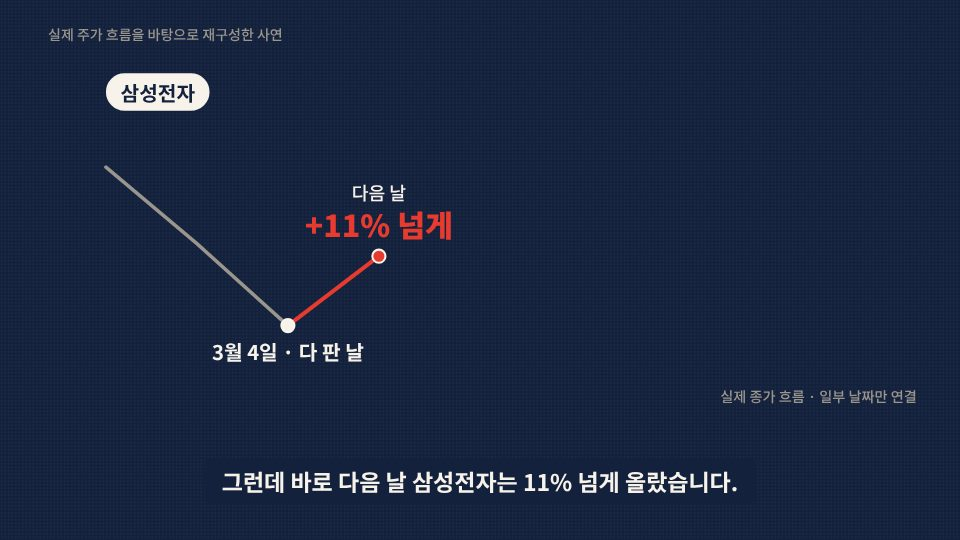
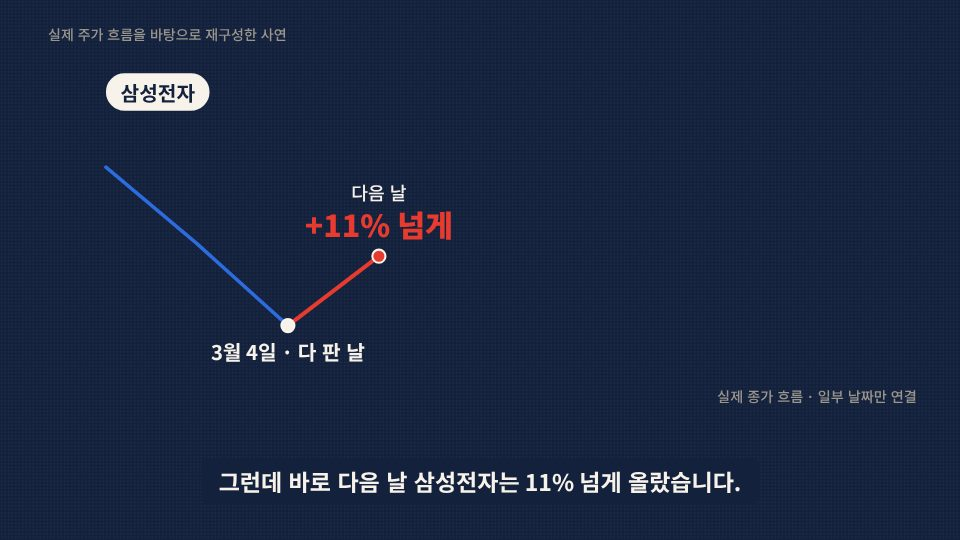
패닉셀 영상 코드·스토리보드 완성 (panicsell-2026-10, 31장면), 공통 부품 버그 2개 수정
- video/src/episodes/panicsell-2026-10/: facts·plan(31장면, STORY_LAST 16)·local·scenes·Episode
  — 문장 92 / 자막 109, 8:21. 스토리보드 53장 + scene_plan.md (stock/out/panicsell-2026-10/)
- 검수 수정: S05 산 가격 → 판 날 하락 구간 선을 회색 → 파랑 (하락 색 규칙)
- components/ui.tsx Strike: 그어지기 전 12px 조각이 보이던 버그
- components/charts.tsx Bars: 바닥선이 첫 막대와 함께 등장
- video/CHANGELOG.md (두 영상·공통 변경), README 현황표, 패닉셀 README v1.1, 요약 문서 갱신
- 검증: tsc 통과(물타기·빚투 포함), 모든 still 검수표 확인, 뒷줄 요소 동기화 확인

Claude-Session: https://claude.ai/code/session_013MzHfSBbKmZjNZkDwikYbP

diff --git a/video/src/components/charts.tsx b/video/src/components/charts.tsx
@@ -104,9 +104,10 @@ export type BarItem = {h: number; color: string; label: React.ReactNode; top?: R
 export const Bars: React.FC<{items: BarItem[]; x: number; baseY: number; maxH: number; barW?: number; gap?: number}> = ({items, x, baseY, maxH, barW = 220, gap = 200}) => {
   const f = useCurrentFrame();
   const fg = useFg();
+  const first = Math.min(...items.map((it) => it.at));   // 바닥선도 첫 막대와 함께 등장 (예전에는 처음부터 보였음)
   return (
     <>
-      <div style={{position: "absolute", left: x - 40, top: baseY, width: items.length * barW + (items.length - 1) * gap + 80, height: 6, background: fg}} />
+      <div style={{position: "absolute", left: x - 40, top: baseY, width: items.length * barW + (items.length - 1) * gap + 80, height: 6, background: fg, opacity: enter(f, first)}} />
       {items.map((it, i) => {
         const h = maxH * it.h * prog(f, it.at, 22);
         const left = x + i * (barW + gap);

diff --git a/video/src/components/ui.tsx b/video/src/components/ui.tsx
@@ -194,7 +194,8 @@ export const Strike: React.FC<{at: number; color?: string; children: React.React
   return (
     <span style={{position: "relative", display: "inline-block"}}>
       {children}
-      <span style={{position: "absolute", left: -6, top: "52%", height: 7, width: `calc(${p * 100}% + 12px)`, background: color ?? fg, borderRadius: 4}} />
+      {/* p = 0(그어지기 전)에는 아무것도 보이지 않게 — 예전에는 12px 조각이 먼저 보였음 */}
+      <span style={{position: "absolute", left: -6, top: "52%", height: 7, width: p > 0 ? `calc(${p * 100}% + 12px)` : 0, background: color ?? fg, borderRadius: 4}} />
     </span>
   );
 };

diff --git a/video/src/episodes/panicsell-2026-10/scenes/story.tsx b/video/src/episodes/panicsell-2026-10/scenes/story.tsx
@@ -258,7 +258,7 @@ export const S05: SceneC = ({t}) => {
         <Label size={40}>처음 산 가격</Label>
       </HRule>
       <Layer>
-        <Line pts={PATH} at={a(12)} dur={14} color={C.gray} width={7} />
+        <Line pts={PATH} at={a(12)} dur={14} color={C.loss} width={7} />
         <Line pts={[sold, UP1]} at={a(12, 0.35)} dur={14} color={C.gain} />
         <Line pts={[UP1, END]} at={a(13, 0.1)} dashed width={6} />
         <Dot p={sold} at={a(12, 0.1)} color={C.inkOnNavy} />

diff --git a/stock/source/panicsell-2026-10/summary.md b/stock/source/panicsell-2026-10/summary.md
@@ -1,6 +1,6 @@
 # panicsell-2026-10 한눈에 보기
 
-자동 생성 — `python tools/make_summary.py stock panicsell-2026-10` (2026-10-10 08:00). 이 파일은 고치지 말고 원본(대본·titles.md·thumbnails/·upload.md)을 고친 뒤 다시 만든다.
+자동 생성 — `python tools/make_summary.py stock panicsell-2026-10` (2026-10-10 08:37). 이 파일은 고치지 말고 원본(대본·titles.md·thumbnails/·upload.md)을 고친 뒤 다시 만든다.
 
 > **하락장이 무서워 -800만원에 다 팔았는데 그 뒤 +30% 반등했습니다. 패닉셀한 사람들이 마지막에 꼭 하는 후회**
 
@@ -12,7 +12,7 @@
 | 제목 3개 | ✅ 채택 T1 |
 | 썸네일 | 프롬프트 3개 ✅ · 이미지 0/3 (이미지 AI로 만들어 `thumbnails/thumbnail_N.png`에 저장) |
 | 업로드 시트 | ✅ 설명란·태그·고정 댓글·챕터 |
-| 스토리보드 | ⏳ 영상 코드 제작 전 |
+| 스토리보드 | ✅ still 53장 |
 | 오디오 | ⏳ 없음 → `source/panicsell-2026-10/narration.mp3`(또는 .wav·.m4a)를 올리면 4단계 시작 |
 | 렌더 | ⏳ 오디오 뒤 |
 | 유튜브 | ⏳ 렌더 뒤 비공개 업로드 + 렌더 완료 1시간 뒤 예약 공개 |
@@ -181,7 +181,23 @@ Render ONLY the Korean text given in quotes, exactly as written, in a heavy bold
 
 ## 4. 스토리보드
 
-아직 없음 → 3단계에서 영상 코드(`video/src/episodes/panicsell-2026-10/`)를 만들고 `node scripts/storyboard.mjs panicsell-2026-10 ../<주제폴더>/out/panicsell-2026-10`로 still을 렌더하면 여기에 붙는다.
+장면 31개 (장면마다 마지막 문장 끝 직전 still)
+
+| | | |
+|---|---|---|
+| <img src="../../out/panicsell-2026-10/storyboard/S01.jpg" width="100%"><br><b>S01</b> 문장 1 · 0:00.0–0:06.3<br><sub>1: 뉴스 카드(2026년 3월 4일 · 코스피) → -12% 카운트다운(파랑) → '넘게 · 하루 만에'</sub> | <img src="../../out/panicsell-2026-10/storyboard/S02.jpg" width="100%"><br><b>S02</b> 문장 2–6 · 0:06.3–0:29.4<br><sub>2: 계좌 카드 등장, 막대가 삼성전자(잉크)로 0 → 4,000만 원, 평가손익 0원 + 오른쪽 '닷새 전' / 3: 뉴스 카드 '반도체가 잘 팔린다' + '오…</sub> | <img src="../../out/panicsell-2026-10/storyboard/S03.jpg" width="100%"><br><b>S03</b> 문장 7–8 · 0:29.4–0:39.2<br><sub>7: 찢어진 종이 전환(네이비), '다음 날' + 큰 날짜 '3월 4일' / 8: 서킷브레이커 카드(오전 11시쯤) → 일시정지 표시 + '시장 전체 거래 20분…</sub> |
+| <img src="../../out/panicsell-2026-10/storyboard/S04.jpg" width="100%"><br><b>S04</b> 문장 9–11 · 0:39.2–0:53.7<br><sub>9: S02의 계좌 카드(머리 '3월 4일') 평가손익 -400만 → -800만 원 + '넘게', 카드가 흔들림 / 10: 뉴스 카드 3장이 쌓임 '전쟁 확대' …</sub> | <img src="../../out/panicsell-2026-10/storyboard/S05.jpg" width="100%"><br><b>S05</b> 문장 12–14 · 0:53.7–1:06.8<br><sub>12: 삼성전자 실제 종가 선 — 산 날 → 3월 4일 다 판 날(회색) → 다음 날 빨강 상승 '+11% 넘게' / 13: '판 가격' 점선, 7주 뒤 점(점선…</sub> | <img src="../../out/panicsell-2026-10/storyboard/S06.jpg" width="100%"><br><b>S06</b> 문장 15–16 · 1:06.8–1:18.5<br><sub>15: 왼쪽 '시장이 빼앗아 감'(회색)에 취소선 → 오른쪽 '겁에 질려 내던진'(형광펜) + 파랑 상자 800만 원 / 16: 모두 퇴장, 휴대폰 화면 '삼성전…</sub> |
+| <img src="../../out/panicsell-2026-10/storyboard/S07.jpg" width="100%"><br><b>S07</b> 문장 17–21 · 1:18.5–1:38.9<br><sub>17: 파랑 선 3개가 함께 내려감 + '시장 전체 ↓' (개념도) / 18·19·20: 생각 말풍선이 자막마다 하나씩 / 21: 모두 퇴장, '겁 > 판단' 칩…</sub> | <img src="../../out/panicsell-2026-10/storyboard/S08.jpg" width="100%"><br><b>S08</b> 문장 22–23 · 1:38.9–1:50.4<br><sub>22: '3월 4일' 칩 + '변동성 지수 VKOSPI', 80 카운트업 + '넘어', '사상 최고'(형광펜) / 23: 숫자를 둘러싼 반원 게이지가 그려지고 바…</sub> | <img src="../../out/panicsell-2026-10/storyboard/S09.jpg" width="100%"><br><b>S09</b> 문장 24–26 · 1:50.4–2:06.6<br><sub>24: '코스피 하루 거래대금' 58조 원 카운트업 + '넘게', '사상 최대'(형광펜) / 25: 작은 계좌 아이콘 12개 — 첫째는 '사연자'(진하게), 나머…</sub> |
+| <img src="../../out/panicsell-2026-10/storyboard/S10.jpg" width="100%"><br><b>S10</b> 문장 27–31 · 2:14.6–2:40.4<br><sub>27: 번호 타이틀 01 '크게 오르는 날은' / (뒷줄) '크게 떨어진 날 바로 뒤에'('바로 뒤에' 형광펜) / 28: 사례 카드① '2026년 · 코스피',…</sub> | <img src="../../out/panicsell-2026-10/storyboard/S11.jpg" width="100%"><br><b>S11</b> 문장 32–34 · 2:40.4–2:58.2<br><sub>32: 카드 '미국 자산운용사 · JP모건' / (뒷줄) 'S&P 500 지수' + 타임라인 2006년 → 2025년 '20년' / 33: 퇴장, 막대 비교 — …</sub> | <img src="../../out/panicsell-2026-10/storyboard/S12.jpg" width="100%"><br><b>S12</b> 문장 35–36 · 2:58.2–3:09.7<br><sub>35: '가장 많이 오른 10일' 빨강 점 10개 → 6개만 남고 4개는 회색, 괄호 + '6일' + '가장 크게 떨어진 10일과 2주 안'(2주 안 형광펜) /…</sub> |
+| <img src="../../out/panicsell-2026-10/storyboard/S13.jpg" width="100%"><br><b>S13</b> 문장 37–39 · 3:09.7–3:26.1<br><sub>37: 번호 타이틀 02 ('훨씬 어렵다' 형광펜) / 38: 왼쪽 카드 '3월 4일 · 판 가격' / (뒷줄) 빨강 화살표 → 오른쪽 위 카드 '다음 날 · 다…</sub> | <img src="../../out/panicsell-2026-10/storyboard/S14.jpg" width="100%"><br><b>S14</b> 문장 40–41 · 3:26.1–3:38.9<br><sub>40: 연구 카드 '미국 MIT 연구진' + '2003년부터 13년' / (뒷줄) '증권 계좌 65만여 개' / 41: '패닉셀'(형광펜) + '한 달 사이 주식…</sub> | <img src="../../out/panicsell-2026-10/storyboard/S15.jpg" width="100%"><br><b>S15</b> 문장 42–43 · 3:38.9–3:49.6<br><sub>42: 10×10 와플 31칸이 채워짐 + '패닉셀 중' 31%(형광펜) + '다시 주식으로 돌아오지 않음' / 43: S07의 말풍선 '일단 팔고, 잠잠해지면 …</sub> |
+| <img src="../../out/panicsell-2026-10/storyboard/S16.jpg" width="100%"><br><b>S16</b> 문장 44–47 · 3:49.6–4:08.4<br><sub>44: 번호 타이틀 03 ('지나고 나서야' 형광펜) / 45: 3월 4일 '판 날' 점 + 그 높이의 회색 점선 / 46: '코스피' 칩, 실제 지수 선 3월 …</sub> | <img src="../../out/panicsell-2026-10/storyboard/S17.jpg" width="100%"><br><b>S17</b> 문장 48–49 · 4:08.4–4:18.3<br><sub>48: '더 싸게 다시 사려면 → 둘 다 맞혀야'(둘 다 형광펜) + 과녁 카드 '파는 날' ✓ + '사는 날' ✓ / 49: 머리글이 파랑 '겁에 질린 날'로 …</sub> | <img src="../../out/panicsell-2026-10/storyboard/S18.jpg" width="100%"><br><b>S18</b> 문장 50–53 · 4:18.3–4:48.2<br><sub>50: 번호 타이틀 04 '사고판 시점 때문에' / (뒷줄) '수익이 줄어든다' / 51: 카드 '모닝스타 · 미국 펀드 평가사 · 2024년까지' / (뒷줄) …</sub> |
+| <img src="../../out/panicsell-2026-10/storyboard/S19.jpg" width="100%"><br><b>S19</b> 문장 54–56 · 4:48.2–5:01.3<br><sub>54: 헤드라인 '긴 하락장도 있다' / 55: '2008년 금융위기 · 코스피' 칩, 실제 지수 선이 1년 동안 파랑으로 내려가 '1년 만에 절반 넘게 ↓' /…</sub> | <img src="../../out/panicsell-2026-10/storyboard/S20.jpg" width="100%"><br><b>S20</b> 문장 57–58 · 5:01.3–5:12.4<br><sub>57: 왼쪽 카드 '무조건 버티기'(회색)에 취소선 / (뒷줄) 오른쪽 카드 '겁이 결정하지 않도록' + '미리 세운 기준'(형광펜) / 58: 카드 퇴장, '하…</sub> | <img src="../../out/panicsell-2026-10/storyboard/S21.jpg" width="100%"><br><b>S21</b> 문장 59–61 · 5:12.4–5:29.8<br><sub>59: 밝은 크림 전환, 번호 타이틀 '첫째 1~2년 안에 쓸 돈은 넣지 않기'(1~2년 형광펜) / 60: 패널 '2008년' + S19와 같은 모양의 작은 선…</sub> |
+| <img src="../../out/panicsell-2026-10/storyboard/S22.jpg" width="100%"><br><b>S22</b> 문장 62–63 · 5:29.8–5:38.8<br><sub>62: S02의 계좌 카드(간단형, '예시 · 4,000만 원'), 막대 끝 1/4이 빗금(현금)으로 바뀌며 '1년 안에 쓸 돈 1,000만 원' / 63: 아래…</sub> | <img src="../../out/panicsell-2026-10/storyboard/S23.jpg" width="100%"><br><b>S23</b> 문장 64–67 · 5:38.8–6:03.7<br><sub>64: 번호 타이틀 '둘째 크게 떨어진 날엔 하루 기다리기'('하루 기다리기' 형광펜) / 65: 파랑 날짜 칸 '서킷브레이커 걸린 날'(S03과 같은 일시정지 …</sub> | <img src="../../out/panicsell-2026-10/storyboard/S24.jpg" width="100%"><br><b>S24</b> 문장 68–69 · 6:03.7–6:14.8<br><sub>68: 번호 타이틀 '셋째 꼭 팔아야 한다면, 정해 둔 만큼만', 잉크 막대 + '전부'에 취소선 / 69: 막대가 3칸으로 나뉘고 오른쪽 1칸이 빗금(현금), …</sub> |
+| <img src="../../out/panicsell-2026-10/storyboard/S25.jpg" width="100%"><br><b>S25</b> 문장 70–72 · 6:14.8–6:32.4<br><sub>70: 오른쪽에 S02의 계좌 카드(머리 '3월 4일', -800만 원 넘게), 막대 3칸 중 1칸이 현금으로 '삼성전자 2/3 · 판 1/3 → 현금' / (뒷…</sub> | <img src="../../out/panicsell-2026-10/storyboard/S26.jpg" width="100%"><br><b>S26</b> 문장 73–75 · 6:32.4–6:49.4<br><sub>73: 번호 타이틀 '넷째 다시 살 날짜와 금액도 정해 두기' / 74: 날짜 칸 4개 '금요일 3월 6일 · 13일 · 20일 · 27일' + 각 '판 돈 1/…</sub> | <img src="../../out/panicsell-2026-10/storyboard/S27.jpg" width="100%"><br><b>S27</b> 문장 76–78 · 6:49.4–7:05.2<br><sub>76: 오른쪽 S02의 계좌 카드(머리 '4월 23일', 막대 4칸 다시 삼성전자) 평가손익 -800만 → -190만 원 '정도' / 77: 왼쪽 '다시 사지 않…</sub> |
+| <img src="../../out/panicsell-2026-10/storyboard/S28.jpg" width="100%"><br><b>S28</b> 문장 79–82 · 7:05.2–7:25.9<br><sub>79: 번호 타이틀 '다섯째 계좌는 정해 둔 날에만 확인' / 80: 카드 '노벨 경제학상 · 리처드 탈러 교수 등' / (뒷줄) '1997년 실험' / 81: …</sub> | <img src="../../out/panicsell-2026-10/storyboard/S29.jpg" width="100%"><br><b>S29</b> 문장 83–85 · 7:25.9–7:41.4<br><sub>83: 왼쪽 '매달 본 학생' 주식 41% 카운트 + 나눔 막대 41% / 84: 오른쪽 '1년에 한 번 본 학생' 주식 70% 가까이 + 막대 70% / 85:…</sub> | <img src="../../out/panicsell-2026-10/storyboard/S30.jpg" width="100%"><br><b>S30</b> 문장 86–88 · 7:41.4–8:01.8<br><sub>86: 3월·4월 달력, 마지막 금요일(27일·24일)에 동그라미 + '○ = 마지막 금요일' / 87: 오른쪽 '3월 27일 -670만 원'(파랑) / (뒷줄)…</sub> |
+| <img src="../../out/panicsell-2026-10/storyboard/S31.jpg" width="100%"><br><b>S31</b> 문장 89–92 · 8:01.8–8:21.0<br><sub>89: 두 열 요약 — 왼쪽 '위험한 이유' 01~04 / (뒷줄) 오른쪽 '지킬 기준' 첫째~다섯째 / 90: 요약 퇴장, 휴대폰 '다 팔고 싶은 날' ✓ '오…</sub> |  |  |
+
+전체 장면 구성표: `out/panicsell-2026-10/scene_plan.md` · 모든 still: `out/panicsell-2026-10/storyboard/index.html`
 
 
 ## 5. 대본 (번호 = 대본 문장 번호)

diff --git a/stock/README.md b/stock/README.md
@@ -16,7 +16,7 @@
 | `source/molppang-2026-10/` | 몰빵 영상 v2.0: 엔론 5문장 삭제한 대본 TXT·SRT(문장 91 / 자막 117, 문장 18 뒤 고지 공백), README(옛→새 번호 대응표) |
 | `source/multagi-2026-10/` | 물타기 영상: 대본 v1.3 TXT·SRT, README(검산·출처), `titles.md`(제목 3개, T1 채택), `thumbnails/`(썸네일 프롬프트 3개), `upload.md`(업로드 시트). SRT: 문장 91 / 자막 110 |
 | `source/bittu-2026-10/` | 빚투 영상: 대본 v1.1 TXT·SRT(문장 88 / 자막 105), README(검산·출처), `titles.md`(T1 채택), `thumbnails/`(3개), `upload.md`. 사연: SK하이닉스 2026년 5~7월, 신용 → 반대매매. 영상 코드·스토리보드 `out/bittu-2026-10/` — 내레이션 대기 |
-| `source/panicsell-2026-10/` | 패닉셀 영상: 대본 v1.0 TXT·SRT(문장 92 / 자막 109), README(검산·출처), `titles.md`(T1 채택), `thumbnails/`(3개), `upload.md`. 사연: 삼성전자 2026년 3월 폭락 날 전량 매도 → 7주 뒤 +30%. 영상 제작 전 |
+| `source/panicsell-2026-10/` | 패닉셀 영상: 대본 v1.0 TXT·SRT(문장 92 / 자막 109), README(검산·출처), `titles.md`(T1 채택), `thumbnails/`(3개), `upload.md`. 사연: 삼성전자 2026년 3월 폭락 날 전량 매도 → 7주 뒤 +30%. 영상 코드·스토리보드 `out/panicsell-2026-10/` — 내레이션 대기 |
 | `source/<영상ID>/summary.md` | 영상별 한눈에 보기 (자동 생성: `python tools/make_summary.py`) — 상태·제목·썸네일 프롬프트·설명란·스토리보드·대본 |
 | `thumbnail_todo.md` | 이미지가 아직 없는 썸네일의 프롬프트 모음 (자동 생성: `python tools/make_summary.py --thumb-todo stock`) |
 | `out/multagi-2026-10/` | 물타기 영상 `scene_plan.md`(장면 구성표), `storyboard/`(장면 still 44장 + `index.html`). 완성 영상 `final_1080p.mp4`는 용량 때문에 git에 올리지 않음 |

diff --git a/video/CHANGELOG.md b/video/CHANGELOG.md
@@ -1,5 +1,15 @@
 # video/ 변경 이력 (guides/video_guide.md 2번 규칙)
 
+## 2026-10-10 — bittu-2026-10 · panicsell-2026-10 (새 영상 2개) · 공통 v1.2
+- 새 영상 `src/episodes/bittu-2026-10/` (빚투·반대매매): 30장면, 문장 88 / 자막 105, 8:20.2. `local.tsx`에 빚 계좌 카드(내 돈·빌린 돈), 담보 막대(140% 선), 날짜 칸 등. 스토리보드 51장
+- 새 영상 `src/episodes/panicsell-2026-10/` (하락장 패닉셀): 31장면, 문장 92 / 자막 109, 8:21. `local.tsx`에 계좌 카드, 10×10 와플, 공포 게이지(개념도), 달력 등. 스토리보드 53장. 검수 뒤 S05 하락 구간 선을 회색 → 파랑(하락 색)으로
+- `Root.tsx`: 두 컴포지션 등록
+- `components/ui.tsx` `Strike`: 그어지기 전(p = 0)에 12px 조각이 먼저 보이던 버그 수정
+- `components/charts.tsx` `Bars`: 바닥선이 막대보다 먼저 보이던 것 → 첫 막대와 함께 등장
+- `scripts/storyboard.mjs` v1.1: 재구성 사연 캡션 범위를 `plan.ts`의 `STORY_LAST`로 (물타기 14, 새 영상 16)
+- `scripts/align-audio.mjs` v1.1: '-숫자'로 시작하는 대본 줄을 파트 라벨로 보지 않음 (`tools/srt_tool.py` v1.4와 같은 규칙)
+- 검수: 두 영상 모든 still을 video_guide 7번 검수표로 확인, 나뉜 문장(각 17개)의 뒷줄 요소가 뒷줄 자막 3프레임 전에 보이지 않음 확인, `tsc --noEmit` 통과(물타기 포함)
+
 ## 2026-10-10 — 공통 v1.1 · multagi-2026-10 (사용자 지시: 문장 번호·자막 한 줄·고지 공백·align-audio)
 - `components/timeline.ts`: SRT 번호 → **대본 문장 번호** 기준. 문장마다 앞줄·뒷줄(parts), `t.b(n)` = 뒷줄 자막 시작. 고지 카드를 코드에서 밀던 계산 삭제 → SRT 안의 공백(cards.start~end)에 카드
 - `components/overlays.tsx`: 자막 늘 한 줄 (띠 좌우 여백 34px → 글자 폭 1432px)

diff --git a/README.md b/README.md
@@ -163,7 +163,7 @@ python youtube_topic_analyzer.py --help                                    # 전
 | 몰빵 `molppang-2026-10` | 제작 완료 · v2.0 대본(엔론 삭제, 문장 91 / 자막 117) | `stock/source/molppang-2026-10/` |
 | 물타기 `multagi-2026-10` | 대본 v1.3 (문장 91 / 자막 110) · 제목 T1 채택 · 썸네일 프롬프트 3개 · 업로드 시트 · 영상 1차 완성(무음) — 내레이션 녹음 대기 | `stock/source/multagi-2026-10/`, `stock/out/multagi-2026-10/` |
 | 빚투 `bittu-2026-10` | 대본 v1.1 (문장 88 / 자막 105, 문장 27 뒤 고지 공백) · 제목 T1 채택 · 썸네일 프롬프트 3개 · 업로드 시트 · 영상 코드·스토리보드 — 내레이션 대기 | `stock/source/bittu-2026-10/` |
-| 패닉셀 `panicsell-2026-10` | 대본 v1.0 (문장 92 / 자막 109, 문장 26 뒤 고지 공백) · 제목 T1 채택 · 썸네일 프롬프트 3개 · 업로드 시트 — 영상 제작 전 | `stock/source/panicsell-2026-10/` |
+| 패닉셀 `panicsell-2026-10` | 대본 v1.0 (문장 92 / 자막 109, 문장 26 뒤 고지 공백) · 제목 T1 채택 · 썸네일 프롬프트 3개 · 업로드 시트 · 영상 코드·스토리보드 — 내레이션 대기 | `stock/source/panicsell-2026-10/` |
 | 건강: 당뇨 전단계 `prediabetes-2026-10` | ⏸ 보류 — 사용자 지시(2026-10-10): 분석 결과가 없는 주제는 아직 진행하지 않음. 대본 (문장 86 / 자막 103)·제목·썸네일·업로드 시트는 만들어 둔 상태 | `health/source/prediabetes-2026-10/` |
 | 사연 주제 | ⏸ 보류 — 같은 이유. 주제 규칙 초안(`story/guides/`)만 있음, 대본 없음 | `story/` |
 

diff --git a/stock/source/panicsell-2026-10/README.md b/stock/source/panicsell-2026-10/README.md
@@ -1,6 +1,6 @@
 # 패닉셀 영상 대본 소스 (panicsell-2026-10)
 
-버전: v1.0 — 2026-10-10 — 최초 작성: 대본·SRT(문장 92 / 자막 109), 사연 검산, 출처, 제목 3개·썸네일 3개·업로드 시트
+버전: v1.1 — 2026-10-10 — 영상 코드·스토리보드 추가 (v1.0: 최초 작성 — 대본·SRT(문장 92 / 자막 109), 사연 검산, 출처, 제목 3개·썸네일 3개·업로드 시트)
 
 > 투자 교육용 콘텐츠의 원고입니다. 특정 종목의 매수·매도를 권유하지 않습니다.
 
@@ -13,7 +13,7 @@
 | `titles.md` | 제목 3개 (제목 지시사항 11번) |
 | `thumbnails/thumbnail_1.md` ~ `_3.md` | 썸네일 시안 3개의 이미지 AI 프롬프트 |
 | `upload.md` | 업로드 시트: 제목·설명란·챕터·태그·고정 댓글·업로드 설정 |
-| (없음) | 영상(Remotion)은 아직 만들지 않음 — 사용자 지시 "영상만 빼고" |
+| `video/src/episodes/panicsell-2026-10/` | 영상 코드 (31장면) — 장면 구성표 `stock/out/panicsell-2026-10/scene_plan.md`, 스토리보드 `stock/out/panicsell-2026-10/storyboard/index.html`. 완성 영상은 내레이션(`narration.mp3`)이 생기면 `bash tools/publish.sh` |
 
 ## 주제 선택 근거
 
@@ -119,4 +119,5 @@
 
 | 버전 | 날짜 | 변경 내용 |
 |---|---|---|
+| v1.1 | 2026-10-10 | 영상 코드(31장면)·스토리보드 53장 |
 | v1.0 | 2026-10-10 | 최초 작성 (사용자 지시: 분석 결과가 있는 주식 쪽에서 새 주제 2개, 영상만 빼고 전부) |

diff --git a/stock/thumbnail_todo.md b/stock/thumbnail_todo.md
@@ -1,6 +1,6 @@
 # stock 썸네일 만들 목록 (이미지 없는 것)
 
-자동 생성 — `python tools/make_summary.py --thumb-todo stock` (2026-10-10 07:08)
+자동 생성 — `python tools/make_summary.py --thumb-todo stock` (2026-10-10 08:37)
 
 1. [A] 프롬프트를 이미지 AI에 넣는다. 한글이 틀리면 [B]로 만들고 문구표대로 글자를 얹는다.
 2. 이미지를 아래 '저장 위치'로 GitHub에 올린다 (크기는 업로드 때 1280×720으로 자동 변환).
